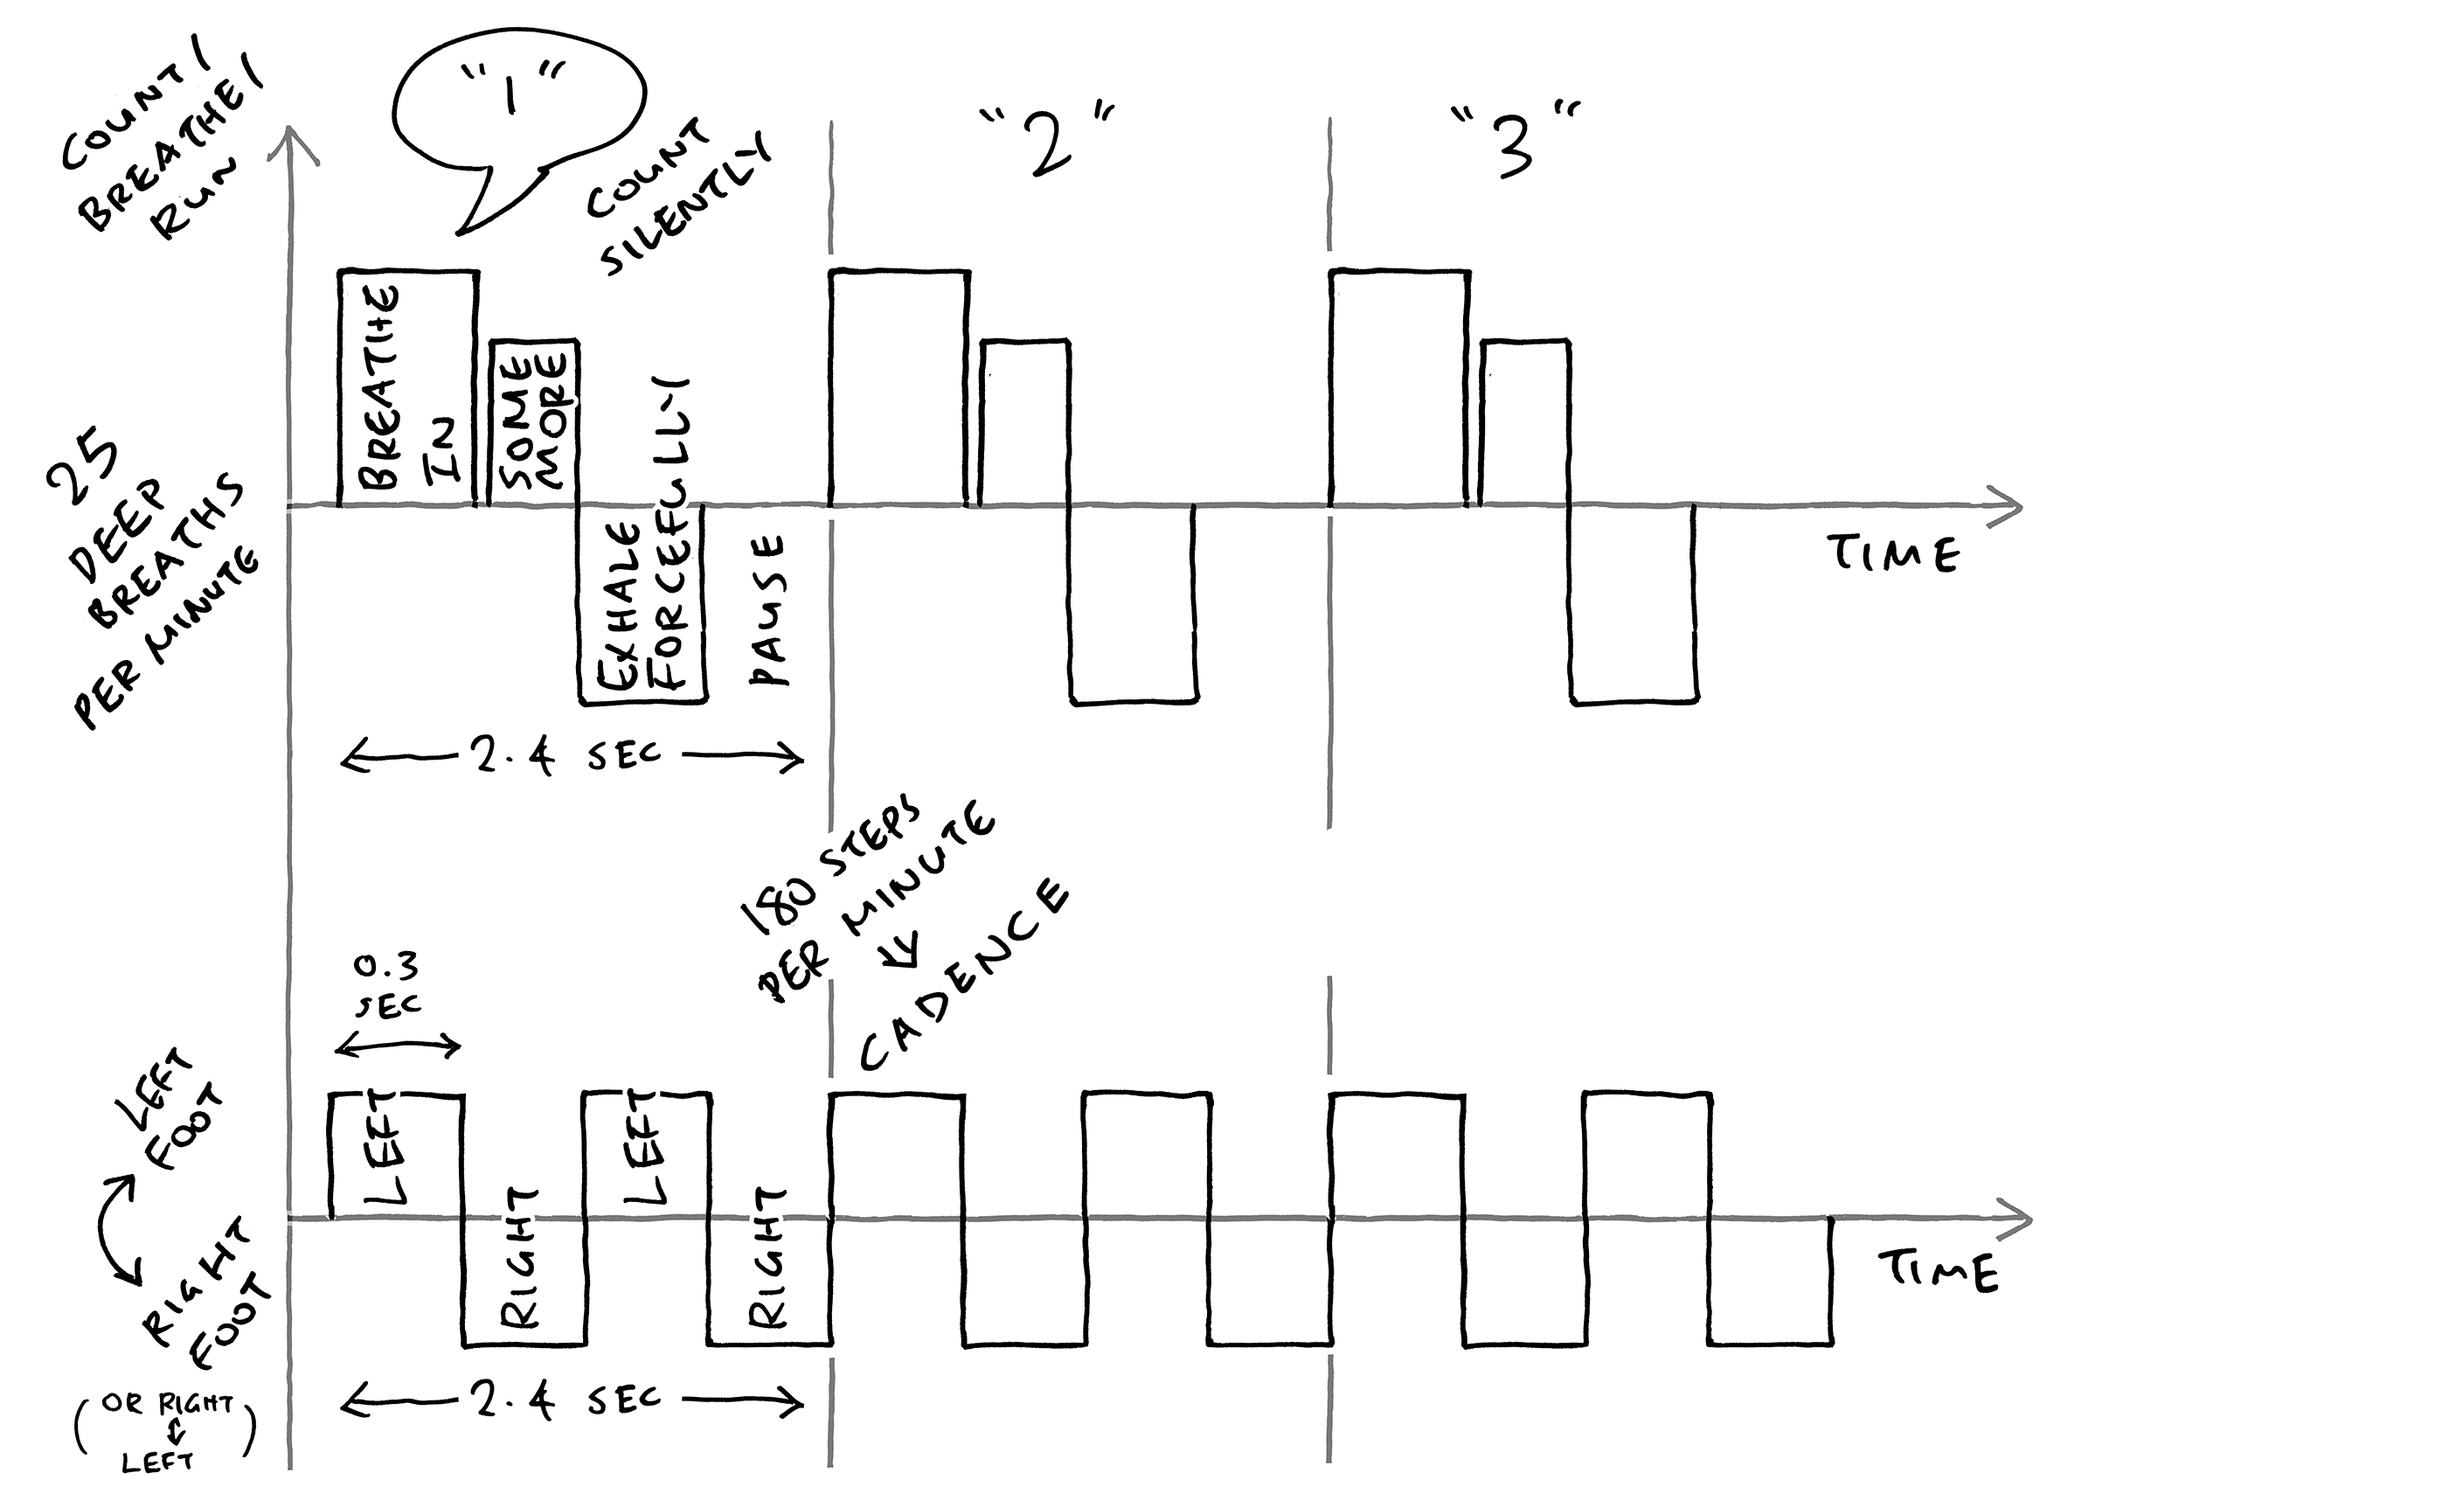
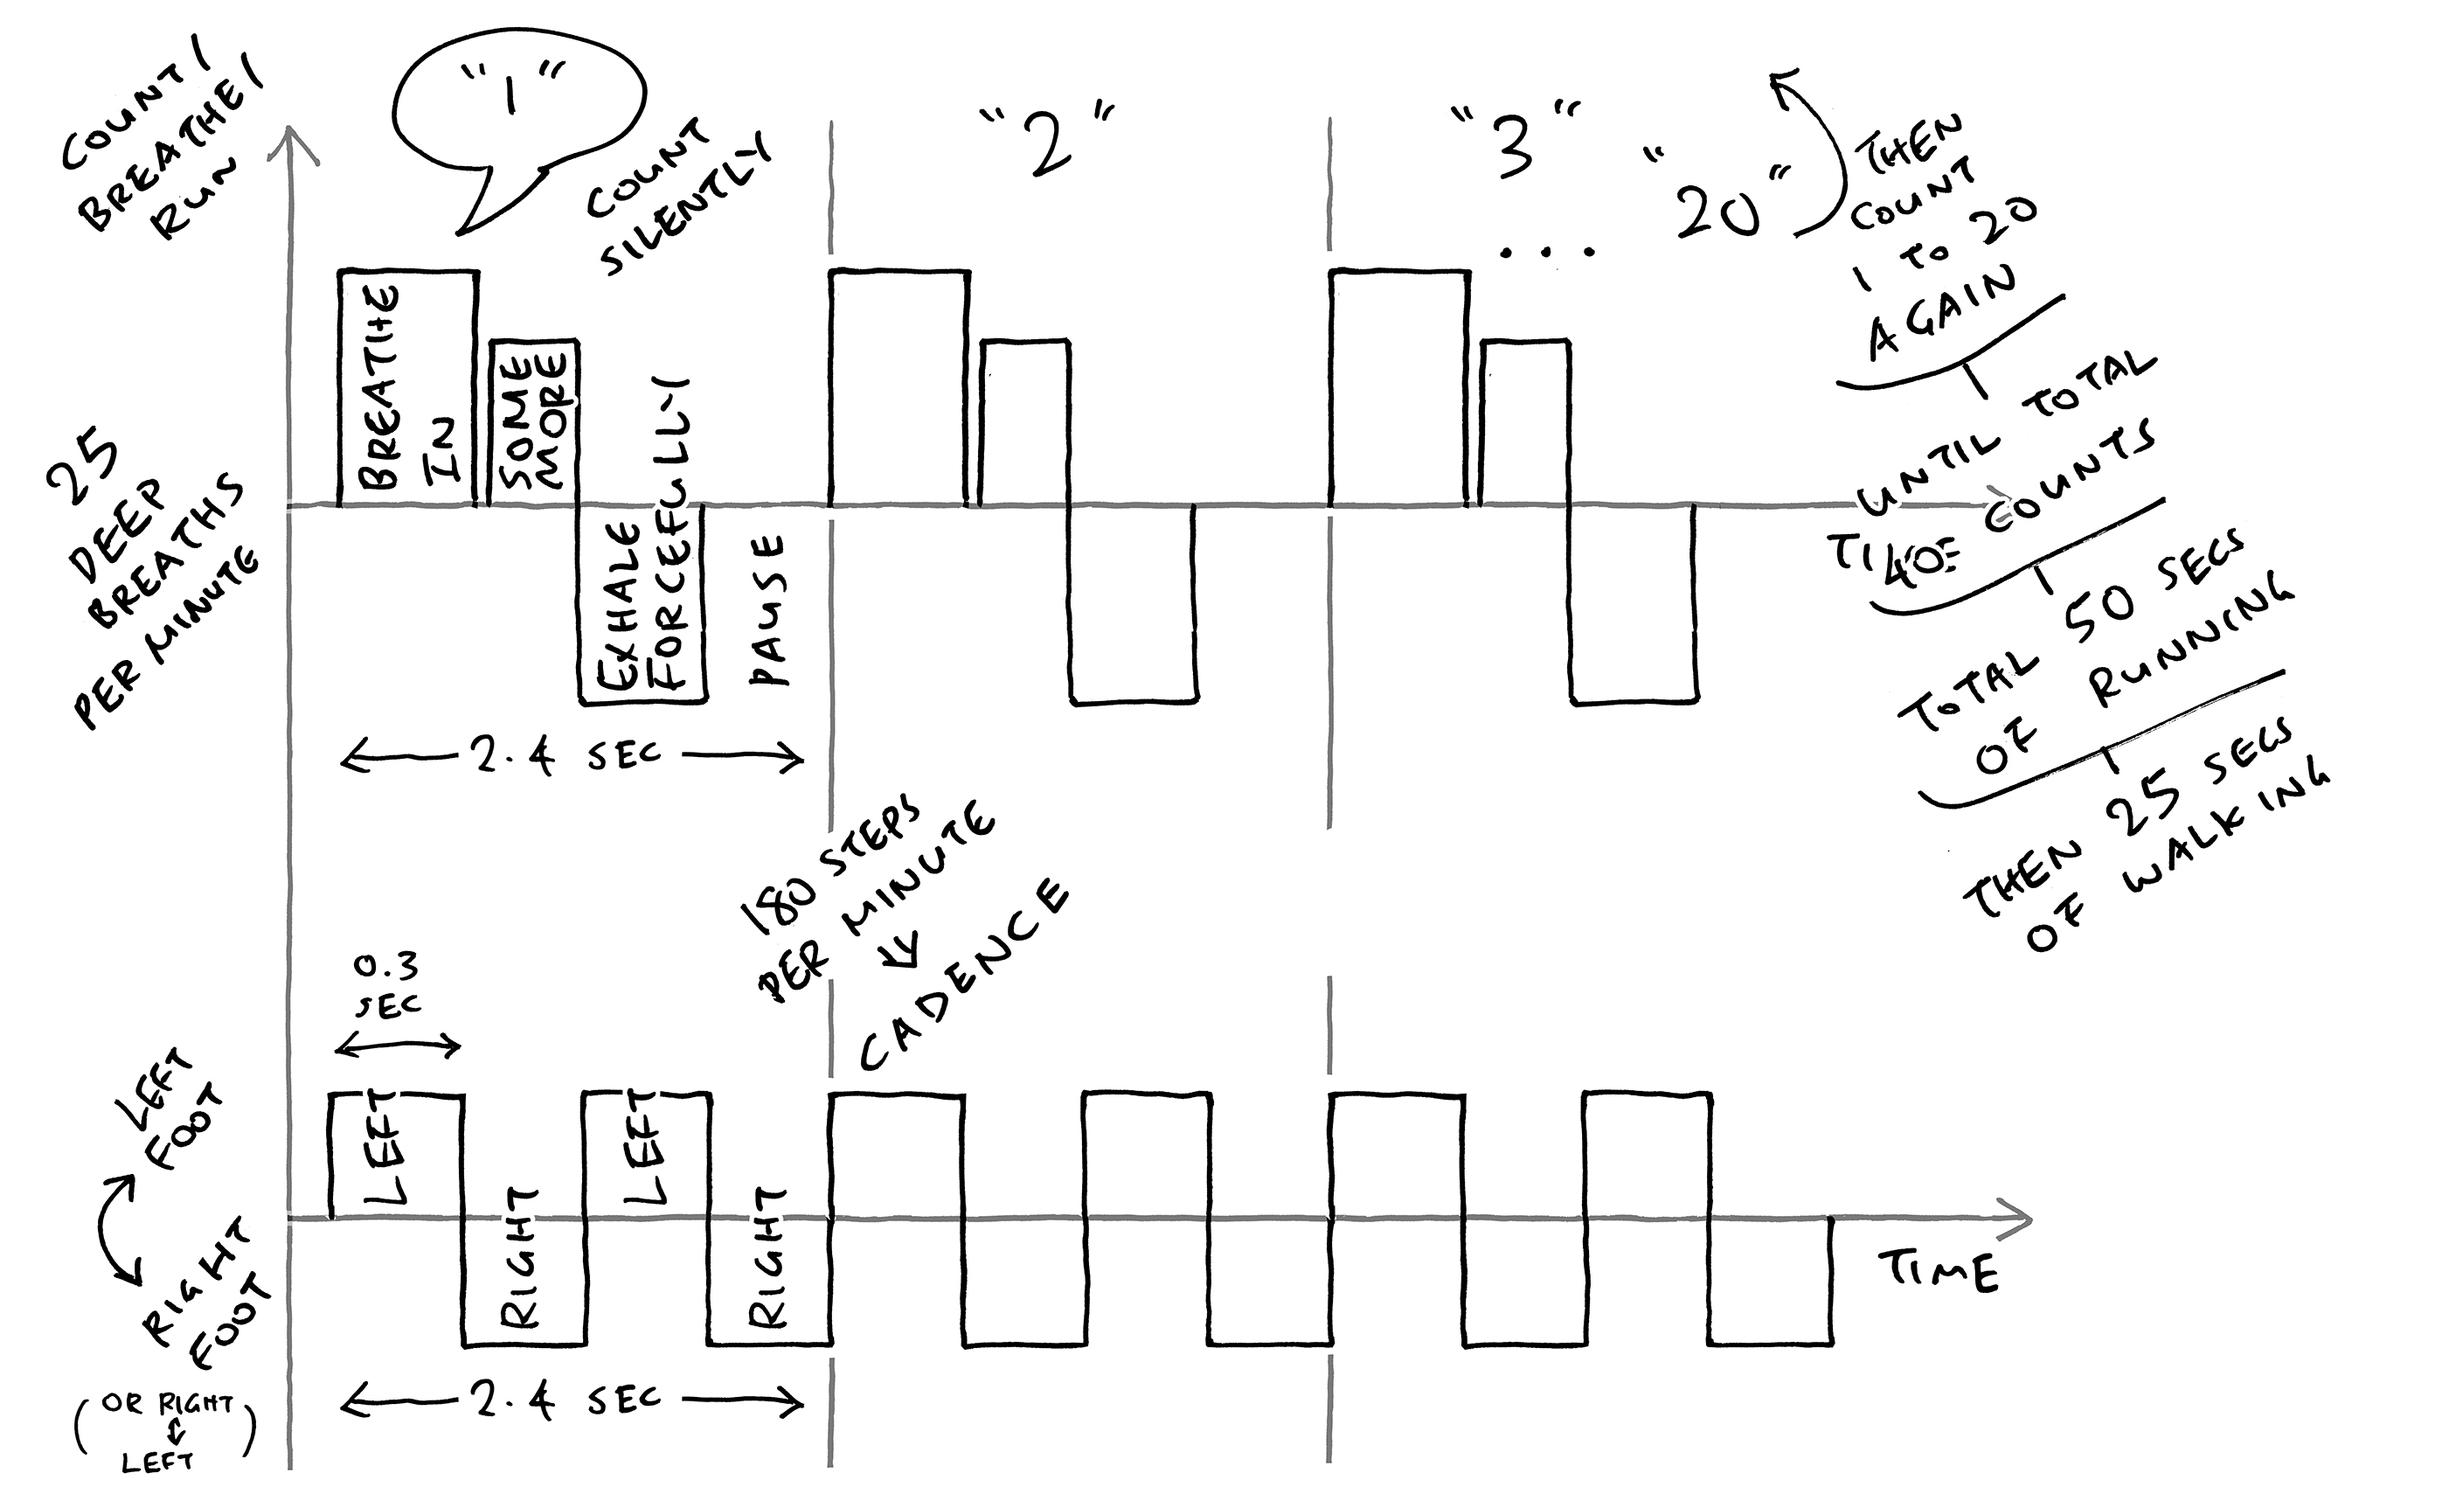
Update article

diff --git a/src/marathon.md b/src/marathon.md
@@ -88,7 +88,7 @@ _Help I'm panting and breathless!_
 
 Ah here comes the cool trick: We don't really need to run all the way...
 
-TODO: Run Walk Run Diagram
+![TODO](https://lupyuen.github.io/images/marathon-runwalk.jpg)
 
 # Run - Walk - Run
 
@@ -132,7 +132,7 @@ Run - Walk - Run is not really that slow...
 
 - Thus we probably ought to [__Start Slower, Finish Faster__](TODO)
 
-![TODO](https://lupyuen.github.io/images/marathon-runwalk.png)
+![TODO](https://lupyuen.github.io/images/marathon-runvswalk.png)
 
 [_10km run then walk: 6.2 vs 6.9 mins / km_](https://www.strava.com/activities/16529249481)
 
@@ -160,7 +160,7 @@ Don't fight the pain! Stop and walk. Do some stretching to reset our running for
 
 Continue running ONLY if we're really OK...
 
-TODO: Pain diagram
+![TODO](https://lupyuen.github.io/images/marathon-injury.jpg)
 
 # Marathon Training Plan
 
